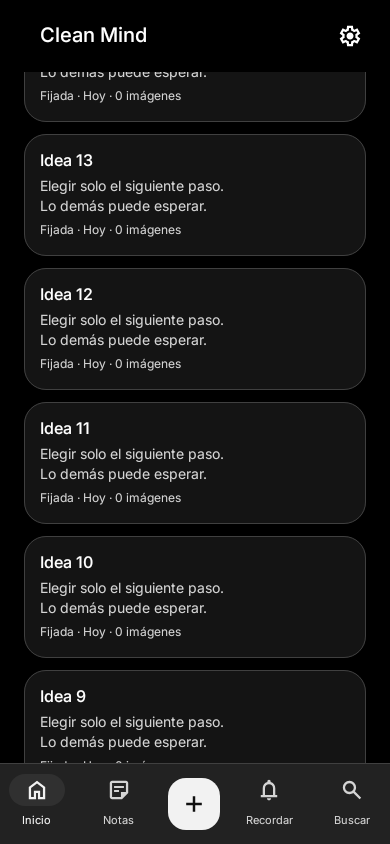
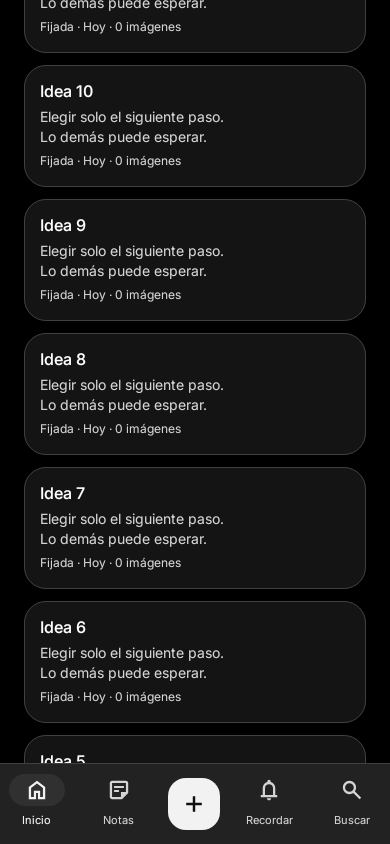
docs: describe header collapse and return behavior

diff --git a/docs/pruebas.md b/docs/pruebas.md
@@ -46,7 +46,7 @@ Los filtros mostrados corresponden a las clases presentes en el repositorio.
 | `RichEditorTest` | 12 | Compatibilidad con texto antiguo, serialización, reapertura con negrita, deshacer/rehacer, limpieza parcial, listas, casillas, espaciado, color con selección conservada y estado de la barra y continuación/salida de listas con Intro, subtítulos y conservación de metadatos al deshacer y disponibilidad del campo nativo para accesibilidad. |
 | `ExampleUnitTest` | 1 | Prueba aritmética de ejemplo del proyecto; no valida funcionalidad de Clean Mind. |
 | `ReminderExportTest` | 5 | Repetición y serialización, programación/recuperación/cancelación de alarmas, TXT UTF-8 y paginación visual de exportación. |
-| `DesignUiTest` | 15 | Capturas locales, privacidad de previews, compartir con pulsación larga, búsqueda/cuadrícula, concentración, completado, ajustes, selección de fecha/hora y formulario independiente con confirmación al descartar y filtrado/movimiento de notas entre carpetas y exclusión de Volver en destinos ocultos, carpetas en cuadrícula y ausencia de búsqueda en Notas y botones del editor sin palabras partidas ni truncadas a 320 dp con fuente 1.35; cabecera fija y viewport de agenda/cuadrícula delimitado entre ambas barras al desplazar. |
+| `DesignUiTest` | 15 | Capturas locales, privacidad de previews, compartir con pulsación larga, búsqueda/cuadrícula, concentración, completado, ajustes, selección de fecha/hora y formulario independiente con confirmación al descartar y filtrado/movimiento de notas entre carpetas y exclusión de Volver en destinos ocultos, carpetas en cuadrícula y ausencia de búsqueda en Notas y botones del editor sin palabras partidas ni truncadas a 320 dp con fuente 1.35; ocultación al descender, permanencia oculta al invertir el scroll a mitad de la lista y reapertura al llegar al inicio, conservando los límites del contenido fuera de las barras. |
 
 Total actual: **69 pruebas locales**, de las cuales una es el ejemplo aritmético original. Esta cifra describe la suite actual y debe revisarse al añadir o retirar casos; no es un porcentaje de cobertura de código.
 
@@ -169,3 +169,11 @@ La barra inferior se cambia a `NavigationBar` Material 3 de ancho completo, acop
 La regresión de cabecera comprueba ahora que el título permanece visible al desplazar en ambos sentidos, que Crear sigue accesible y que los límites de los viewports de agenda y cuadrícula no invaden las barras. Esta revisión sustituye el comportamiento de ocultación descrito para el día 25. No había ningún teléfono conectado por ADB; se verifica localmente y no se afirma una nueva instalación o prueba física.
 
 Resultado local: compilaciones debug y release, lint de ambas variantes y las 69 pruebas correctas, sin fallos ni omisiones. Se regeneraron las capturas sintéticas con las barras fijas.
+
+## Cabecera que reaparece al inicio · 26 de noviembre de 2026
+
+La cabecera de las pestañas del cuaderno usa ahora `exitUntilCollapsed`, conservando el fondo opaco. Se oculta al descender y no reaparece con un pequeño desplazamiento de vuelta mientras la lista siga lejos del principio. El padding de `Scaffold` se adapta a su altura sin permitir que el contenido se superponga. La barra inferior sigue acoplada al borde.
+
+La regresión de UI comprueba una agenda larga: cabecera visible al empezar, oculta tras descender, todavía oculta al invertir brevemente el desplazamiento con posición mayor que cero y visible de nuevo con la posición de scroll a cero. También comprueba el colapso en la cuadrícula y que Crear permanece visible. Esta revisión sustituye la cabecera siempre fija del apartado anterior.
+
+Resultado: compilaciones debug/release, lint de ambas variantes y las 69 pruebas locales correctas. Se instaló el APK debug en el realme mediante ADB inalámbrico. No se completó la comprobación manual de scroll al encontrarse el editor con una nota abierta; no se registra como prueba física superada.

diff --git a/docs/glass-ui.md b/docs/glass-ui.md
@@ -6,7 +6,9 @@ La revisión del 25 de noviembre de 2026 adopta la alternativa Material 3 solici
 
 Las tarjetas emplean `surfaceContainerLow`, las barras inferiores `surfaceContainer` y los estados seleccionados `tertiaryContainer`. Los límites usan los roles de contorno del tema. Los colores se resuelven como superficies Material 3 y no como transparencias que varíen el contraste del texto según el contenido situado detrás.
 
-Desde la revisión del 26 de noviembre, las cabeceras son fijas y tienen el color de fondo del tema. No se ocultan al desplazar ni dejan pasar texto por detrás. El contenido del cuaderno aplica el padding medido por `Scaffold` y consume esos insets antes de componer listas, cuadrículas y recordatorios; cada viewport queda entre las barras, con su espaciado propio de 8/24 dp. La fecha de cada grupo conserva su semántica de encabezado y utiliza 16 sp y peso seminegrita.
+Las cabeceras conservan el fondo opaco del tema para impedir superposiciones. En las pestañas del cuaderno, el `TopAppBar` usa `exitUntilCollapsed`: se oculta al desplazarse hacia abajo y reaparece cuando el contenido alcanza su inicio. Invertir la dirección a mitad de la lista no lo muestra. Las pantallas con Volver y el editor mantienen sus cabeceras fijas.
+
+El contenido del cuaderno aplica el padding medido por `Scaffold` y consume esos insets antes de componer listas, cuadrículas y recordatorios. Ese espacio se adapta a la altura visible de la cabecera y mantiene el viewport fuera de las barras. La franja de estado continúa protegida por el color del tema. La fecha de cada grupo conserva su semántica de encabezado y utiliza 16 sp y peso seminegrita.
 
 La barra inferior es un `NavigationBar` Material 3 acoplado al borde, sin márgenes exteriores, esquinas de tarjeta ni elevación flotante. Su superficie ocupa todo el ancho y también el área de navegación del sistema. Se conserva la acción central Crear.
 

diff --git a/docs/figma-ui.md b/docs/figma-ui.md
@@ -74,3 +74,5 @@ Las carpetas, el arranque monocromo y las transiciones se incorporan por las nue
 Las carpetas en cuadrícula son un cambio posterior pedido por el usuario. El 25 de noviembre, el acabado de cristal se sustituyó por la alternativa Material 3: fondo negro uniforme en oscuro, contraste alto, cabecera transparente con scroll y hojas continuas hasta el área de navegación. Notas ya no incorpora una búsqueda local; la búsqueda global continúa en su pestaña.
 
 El 26 de noviembre se fijan las cabeceras y se hacen opacas para impedir superposiciones con el texto. La barra inferior pasa a estar acoplada al borde, con ancho completo. La distribución del contenido respeta el espacio reservado para ambas barras.
+
+La cabecera principal se ajusta después a `exitUntilCollapsed`: se oculta al descender y reaparece al alcanzar el inicio, manteniendo el fondo opaco y la separación del contenido para evitar textos superpuestos.
